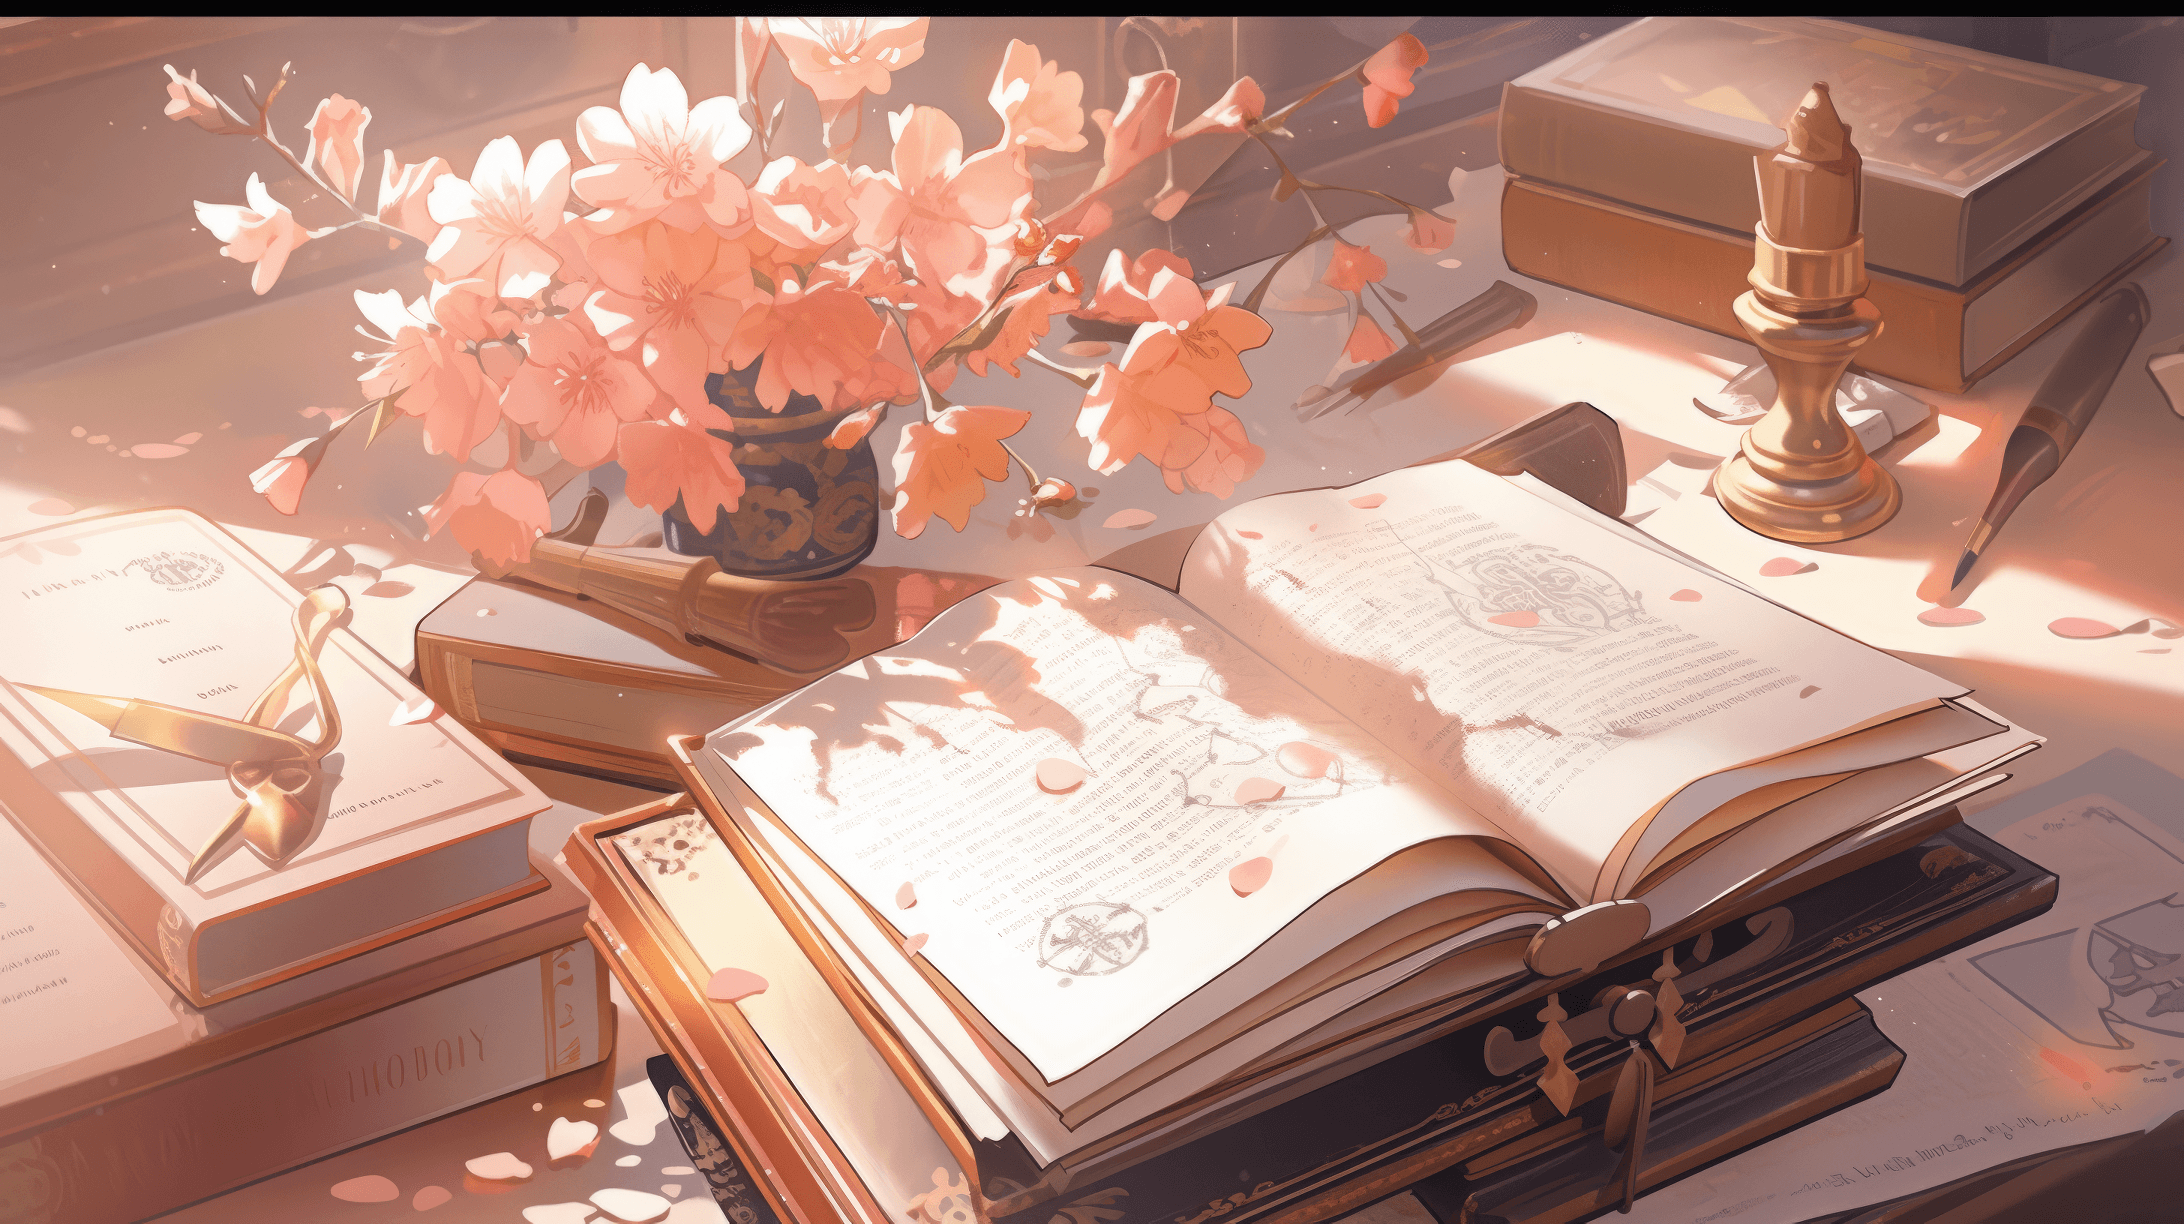
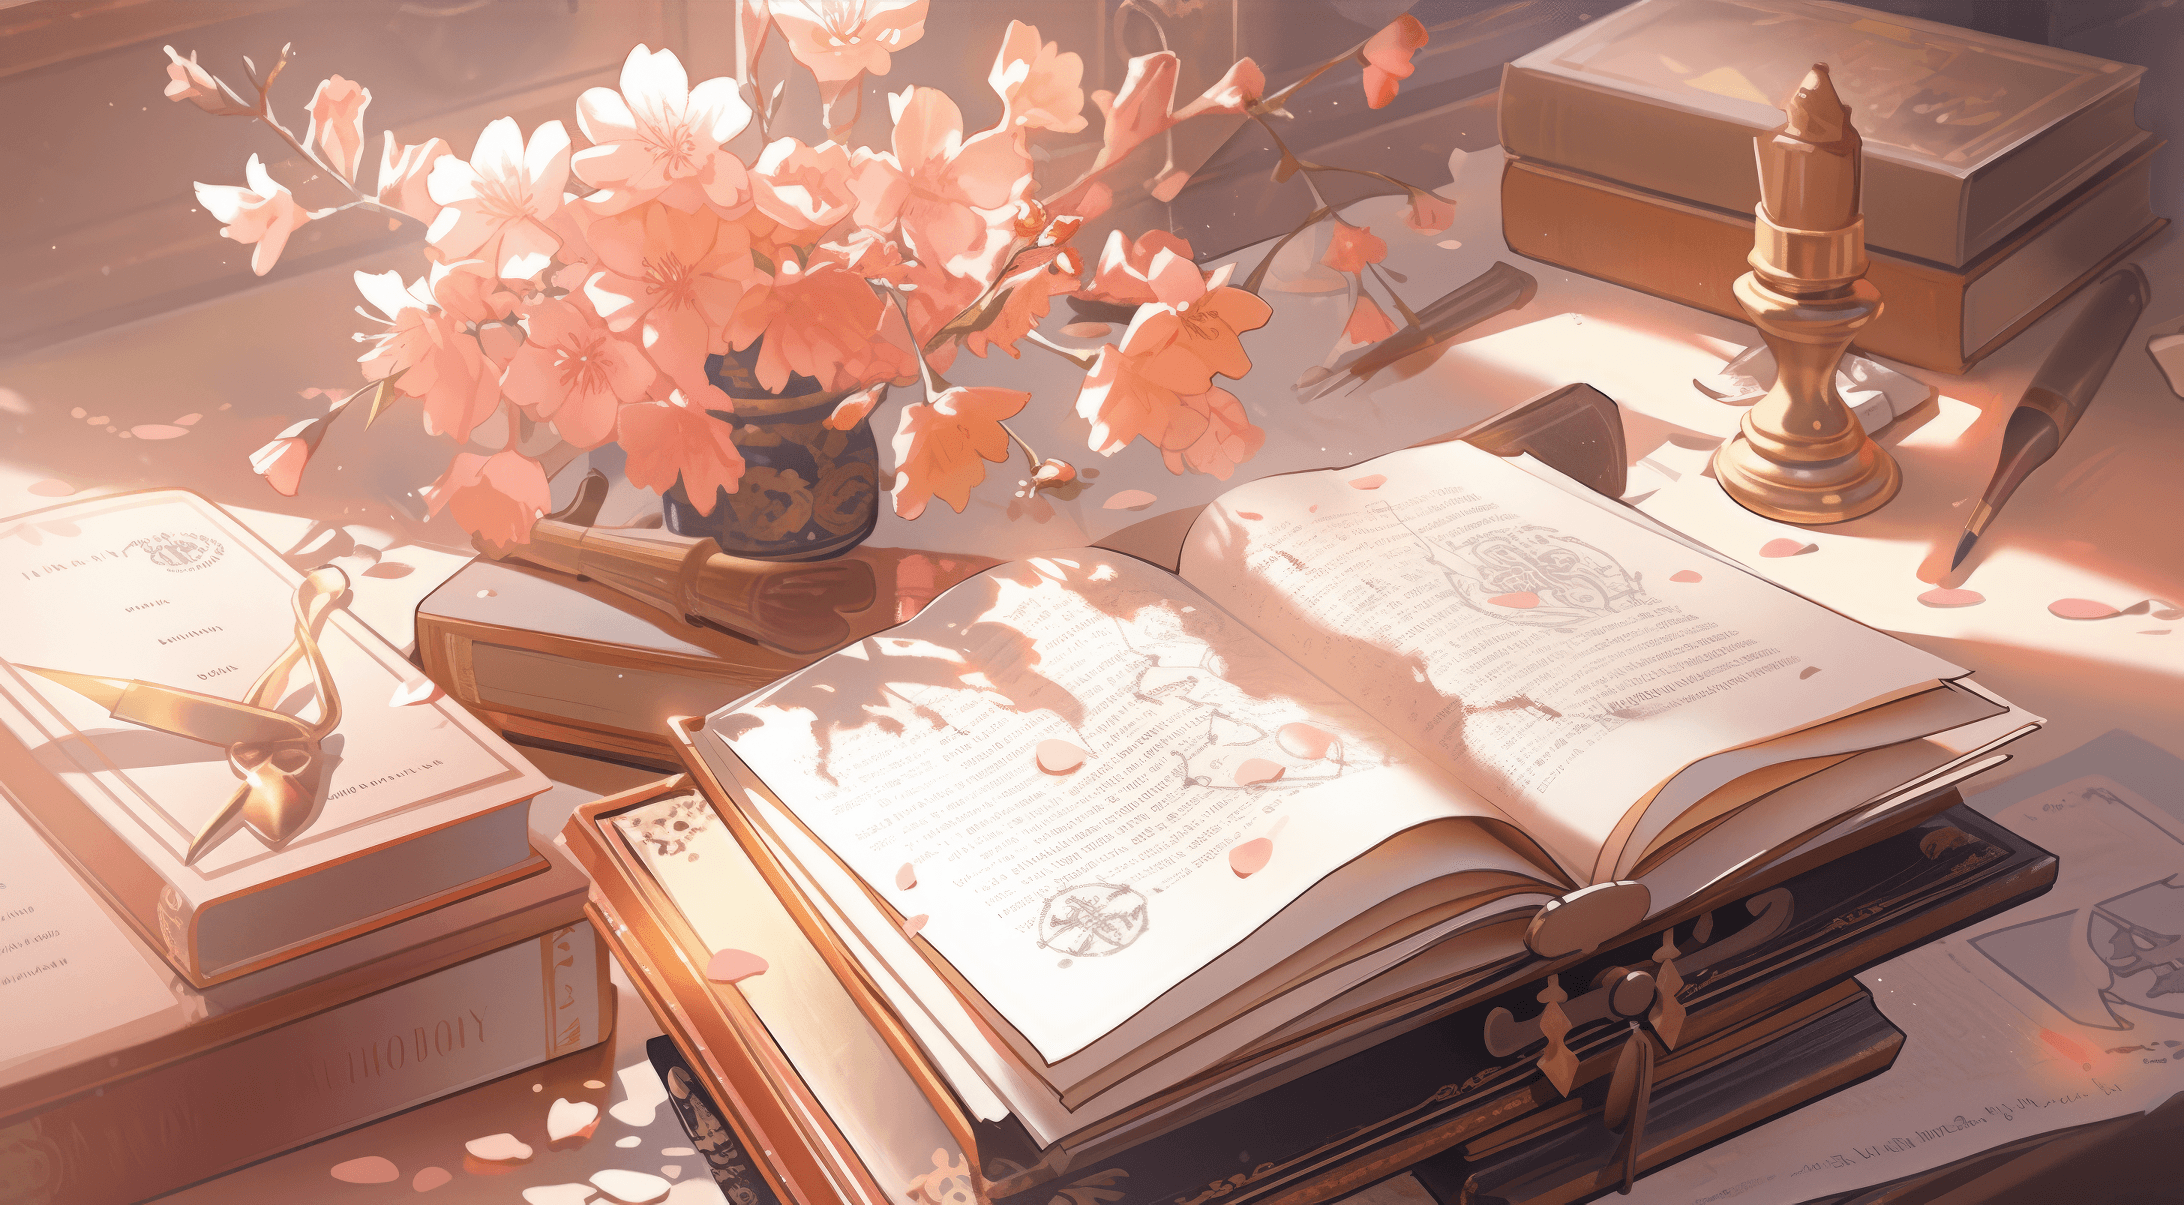
Add files via upload

diff --git a/style.css b/style.css
@@ -72,8 +72,8 @@ body.nontech .main::before {
     position: absolute;
     top: 0;
     right: 0;
-    width: 100%;
-    height: 100%;
+    width: 120%;
+    height: 120%;
     background-image: url('background.png'); /* Replace with your image path */
     background-size: cover;
     background-repeat: no-repeat;

diff --git a/nontech.html b/nontech.html
@@ -67,7 +67,7 @@ body {
             background-size: cover;
             background-repeat: no-repeat;
             background-position: center top;
-            opacity: 0.2; /* Adjust the opacity (0 to 1) */
+            opacity: 0.6; /* Adjust the opacity (0 to 1) */
         }
     </style>
 </head>
